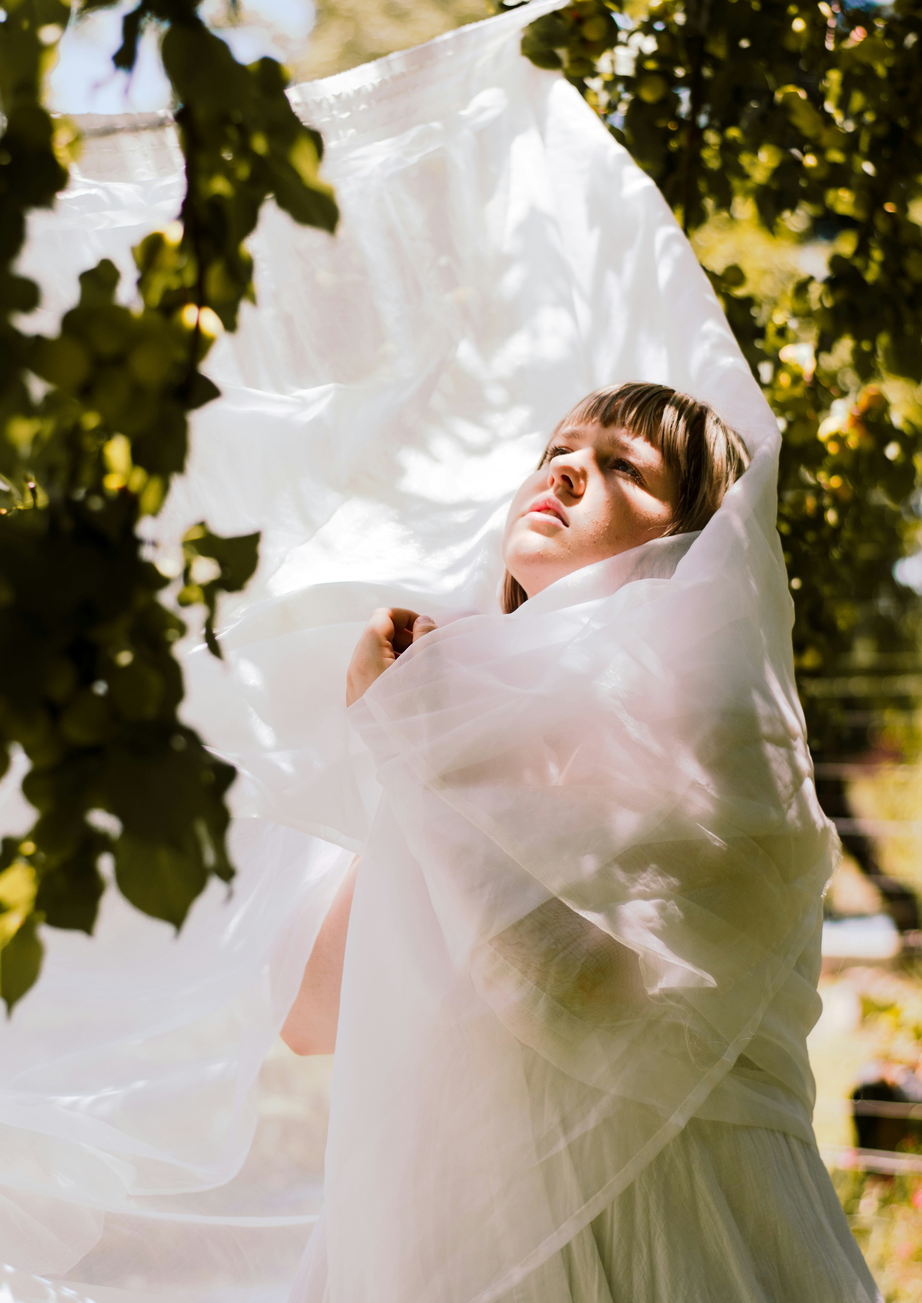
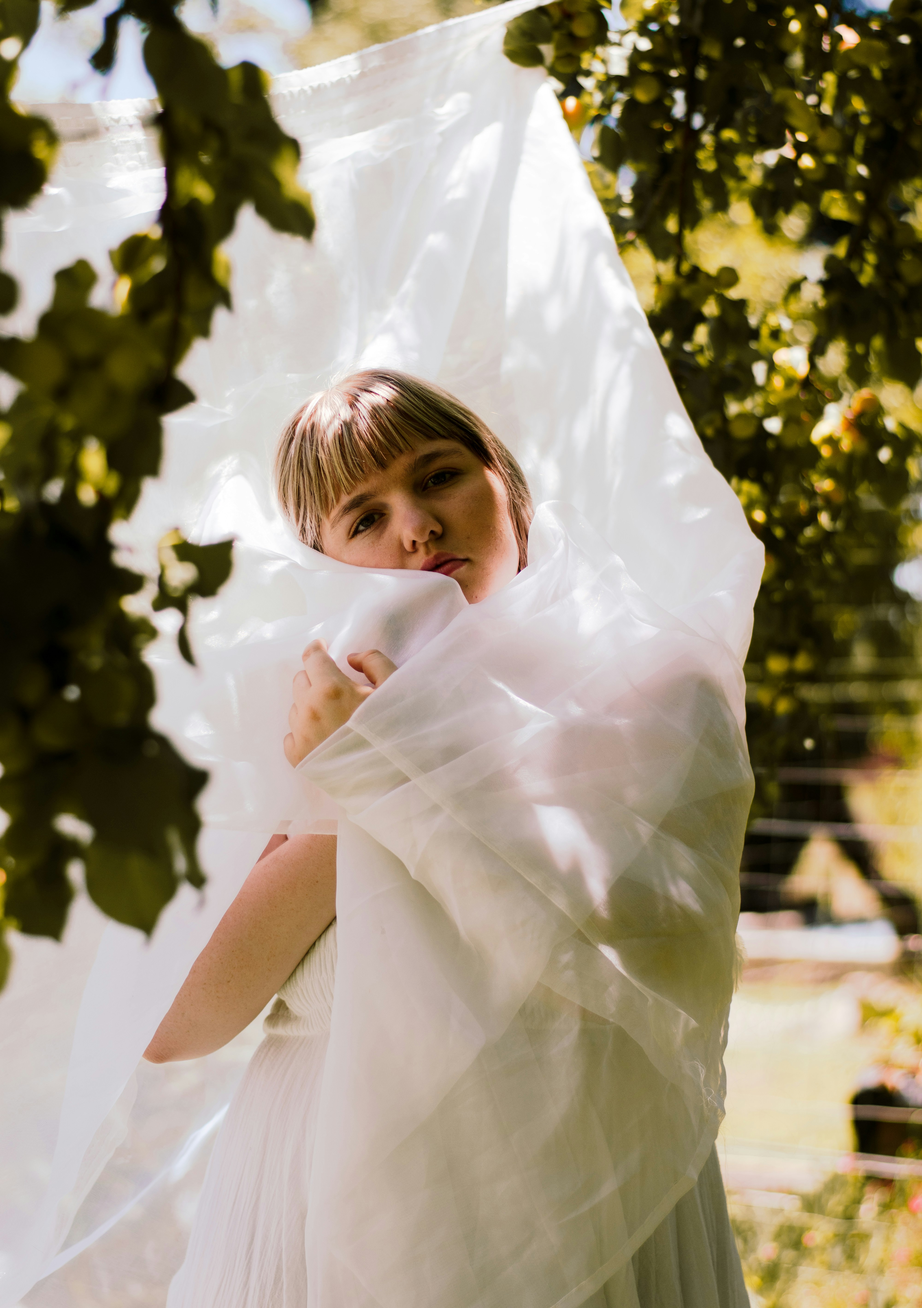
feat(add): animation about-img smooth

diff --git a/index.html b/index.html
@@ -219,9 +219,20 @@
             <div
                 class="lg:col-span-4 flex justify-center lg:justify-end order-3 z-10 h-full min-h-[350px] lg:min-h-[650px] w-full mt-6 lg:mt-0">
 
-                <div class="w-full max-w-[16rem] md:max-w-sm lg:max-w-md h-full overflow-hidden bg-gray-100 rounded-sm">
-                    <img src="assets/about-img-3.jpg" alt="Konsep Mind Space"
-                        class="w-full h-full object-cover object-center transition-transform duration-700 hover:scale-105">
+                <div
+                    class="relative w-full max-w-[16rem] md:max-w-sm lg:max-w-md h-[350px] lg:h-[650px] overflow-hidden bg-gray-100 rounded-sm group shadow-sm">
+
+                    <img id="about-img-1" src="assets/about-img-3.jpg" alt="Konsep Mind Space 1"
+                        class="absolute inset-0 w-full h-full object-cover object-center transition-all duration-1000 ease-in-out opacity-100 group-hover:scale-105">
+
+                    <img id="about-img-2" src="assets/about-img-4.jpg" alt="Konsep Mind Space 2"
+                        class="absolute inset-0 w-full h-full object-cover object-center transition-all duration-1000 ease-in-out opacity-0 group-hover:scale-105">
+
+                    <img id="about-img-3" src="assets/about-img-5.jpg" alt="Konsep Mind Space 3"
+                        class="absolute inset-0 w-full h-full object-cover object-center transition-all duration-1000 ease-in-out opacity-0 group-hover:scale-105">
+
+                    <img id="about-img-4" src="assets/about-img-6.jpg" alt="Konsep Mind Space 4"
+                        class="absolute inset-0 w-full h-full object-cover object-center transition-all duration-1000 ease-in-out opacity-0 group-hover:scale-105">
                 </div>
             </div>
 

diff --git a/script.js b/script.js
@@ -118,4 +118,28 @@ document.addEventListener("DOMContentLoaded", () => {
         // Update posisi terakhir
         lastScrollY = currentScrollY;
     });
+
+    // --- 4. Logika Slider Gambar Section About (Mind Space) ---
+    const aboutImages = [
+        document.getElementById('about-img-1'),
+        document.getElementById('about-img-2'),
+        document.getElementById('about-img-3'),
+        document.getElementById('about-img-4')
+    ];
+
+    let currentAboutIndex = 0;
+
+    // Transisi gambar setiap 4 detik (bisa kamu sesuaikan)
+    setInterval(() => {
+        // Fade out gambar saat ini
+        aboutImages[currentAboutIndex].classList.remove('opacity-100');
+        aboutImages[currentAboutIndex].classList.add('opacity-0');
+
+        // Pindah ke indeks berikutnya, kembali ke 0 jika sudah di akhir
+        currentAboutIndex = (currentAboutIndex + 1) % aboutImages.length;
+
+        // Fade in gambar berikutnya
+        aboutImages[currentAboutIndex].classList.remove('opacity-0');
+        aboutImages[currentAboutIndex].classList.add('opacity-100');
+    }, 2000);
 });
